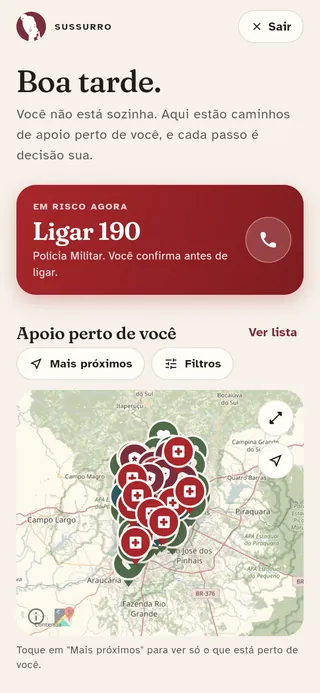
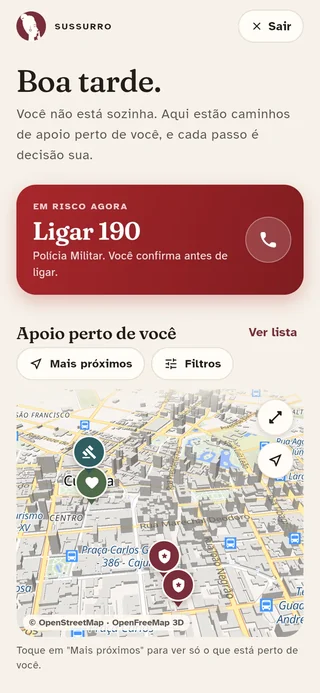
feat(telas): atualiza prints (mapa 3D e Acompanhar) e alinha celulares

diff --git a/src/sections/Telas.tsx b/src/sections/Telas.tsx
@@ -14,9 +14,9 @@ const itens = [
     texto: "Cada local mostra telefone, horário, quem é atendido e quando o dado foi verificado.",
   },
   {
-    tela: "direitos",
-    titulo: "Sete guias que abrem sem internet",
-    texto: "Da medida protetiva ao plano de segurança. Ainda aguardam revisão profissional, e o app avisa isso.",
+    tela: "acompanhar",
+    titulo: "Acompanhamento ao vivo no navegador",
+    texto: "Quem recebe o link acompanha a posição pelo celular em tempo real, sem precisar instalar o app.",
   },
 ] as const;
 
@@ -37,7 +37,7 @@ export function Telas() {
           ))}
         </ul>
         <p className="telas__nota">
-          Capturas da versão de testes, em novembro de 2026. Mapa © colaboradores do OpenStreetMap.{" "}
+          Capturas da versão de testes, em novembro de 2026. Mapa © colaboradores do OpenStreetMap · OpenFreeMap.{" "}
           <LinkPagina para="o-app" className="link-seta">
             Ver tudo o que o app faz
             <ArrowRight size={18} aria-hidden="true" />

diff --git a/src/telas.ts b/src/telas.ts
@@ -1,5 +1,5 @@
-import direitos from "./assets/telas/direitos.webp";
-import direitosP from "./assets/telas/direitos-320.webp";
+import acompanhar from "./assets/telas/acompanhar.webp";
+import acompanharP from "./assets/telas/acompanhar-320.webp";
 import inicio from "./assets/telas/inicio.webp";
 import inicioP from "./assets/telas/inicio-320.webp";
 import lista from "./assets/telas/lista.webp";
@@ -16,9 +16,10 @@ export const telas = {
     pequena: listaP,
     descricao: "Lista da rede de apoio, com endereço, horário, data de verificação, telefone e botão Como chegar.",
   },
-  direitos: {
-    grande: direitos,
-    pequena: direitosP,
-    descricao: "Lista de guias do app: emergência, plano de segurança, boletim de ocorrência e medida protetiva.",
+  acompanhar: {
+    grande: acompanhar,
+    pequena: acompanharP,
+    descricao:
+      "Tela demonstrativa de acompanhamento ao vivo no navegador, com posição simulada em Curitiba, coordenadas, mapa e atalhos para traçar rota.",
   },
 };

diff --git a/src/styles.css b/src/styles.css
@@ -930,9 +930,6 @@ main:focus {
   padding: 0;
   list-style: none;
 }
-.telas li:nth-child(2) {
-  margin-top: 56px;
-}
 .telas li > .tela {
   max-width: 300px;
 }
@@ -965,9 +962,6 @@ main:focus {
   .telas {
     grid-template-columns: minmax(0, 1fr);
     gap: 40px;
-  }
-  .telas li:nth-child(2) {
-    margin-top: 0;
   }
   .telas li {
     display: grid;
